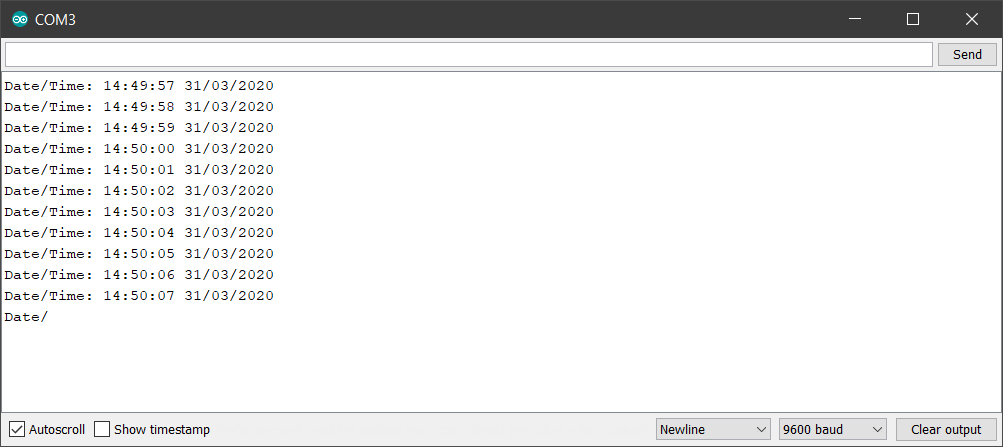
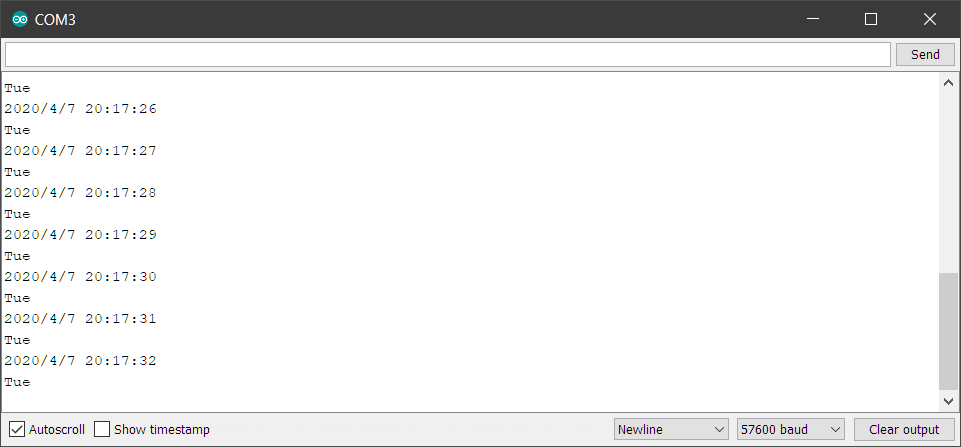
Image updates

diff --git a/README.md b/README.md
@@ -185,7 +185,7 @@ Use a "reference" point like like [Time.gov](http://www.time.gov/) to view the c
   
 Open the Serial Monitor by pressing the `Serial Monitor` button, hold `Ctrl+Shift+M` or select `Tools > Serial Monitor` from the menu.  Make sure the "`baud`" rate option at the bottom right side of the window is set to "`57600`".  
   
-![](/images/image-needed.jpg)  
+![](/images/arduino_baud-57600.jpg)  
 
 The Serial Monitor should output the current date-time set on the Mayfly.  If you are unsatisfied with the results or you missed the reference time, change the "target time" (`DateTime dt()`) in the code, upload the sketch to the Mayfly and try again.
 
